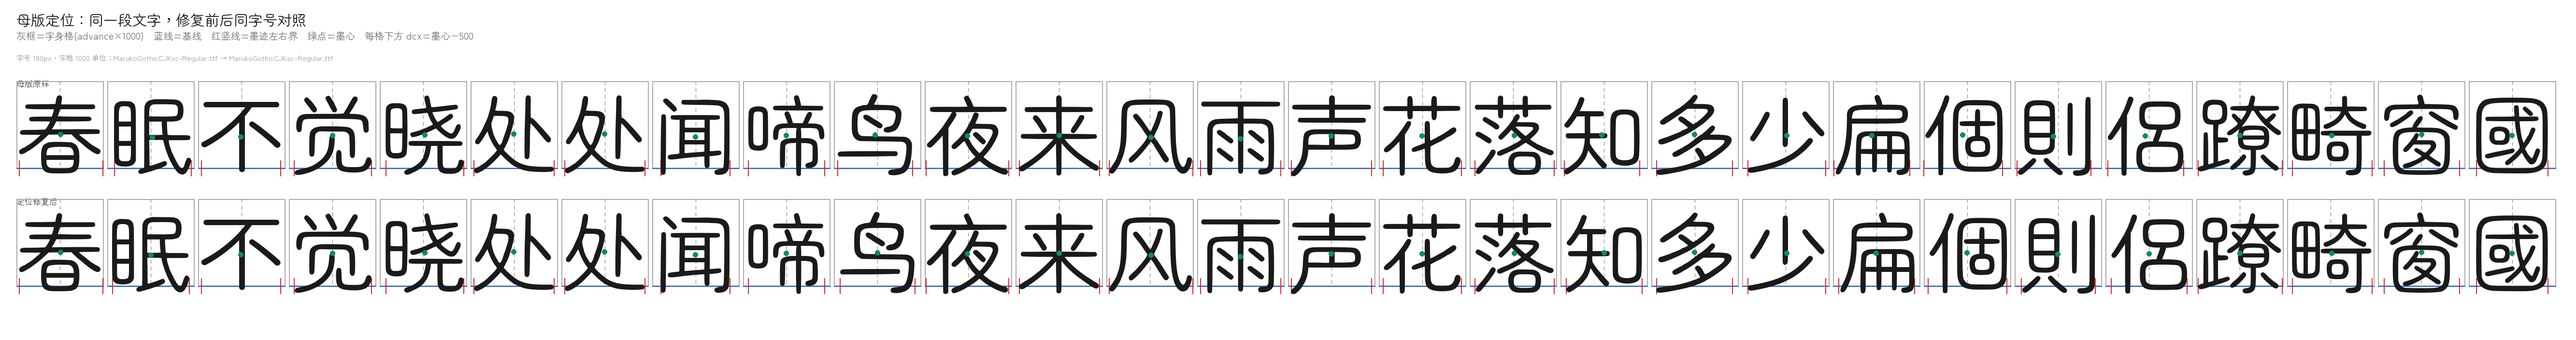
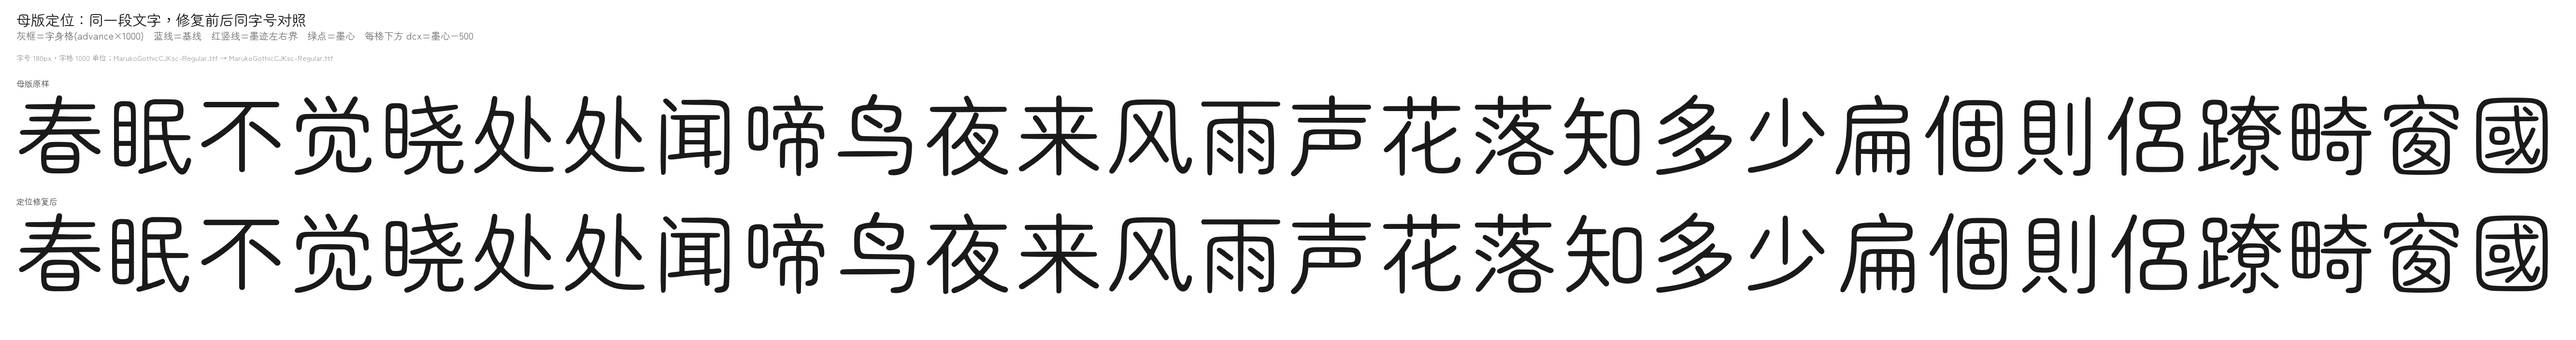
母版定位：补全库分布图，text 模式不画辅助线

diff --git a/tools/fig_hpos.py b/tools/fig_hpos.py
@@ -94,16 +94,73 @@ def draw_cell(img: Image.Image, d: ImageDraw.ImageDraw, path: Path, ch: str,
             d.text((x0 + 2, base + 10), label, font=lab_font, fill=MID)
 
 
+def distribution(path: Path) -> list[float]:
+    """全库满格字的 |dcx|（墨宽 ≥ 850、advance 1000 的汉字），直方图的口径。"""
+    out: list[float] = []
+    with TTFont(str(path), lazy=True) as f:
+        cmap, glyf = f.getBestCmap(), f["glyf"]
+        for cp, gname in cmap.items():
+            if not (0x4E00 <= cp <= 0x9FFF or 0x3400 <= cp <= 0x4DBF):
+                continue
+            g = glyf[gname]
+            if g.numberOfContours > 0 and g.xMax - g.xMin >= 850:
+                out.append(abs((g.xMin + g.xMax) / 2 - 500))
+    return out
+
+
+def draw_dist(master: Path, fixed: Path, out: Path) -> None:
+    a, b = distribution(master), distribution(fixed)
+    top = 60
+    bins = list(range(0, 65, 5))
+    ha = [sum(1 for v in a if lo <= v < lo + 5) for lo in bins]
+    hb = [sum(1 for v in b if lo <= v < lo + 5) for lo in bins]
+    W, H = 1660, 720
+    img = Image.new("RGB", (W, H), "white")
+    d = ImageDraw.Draw(img)
+    f_t = ImageFont.truetype(str(master), 30)
+    f_s = ImageFont.truetype(str(master), 21)
+    f_x = ImageFont.truetype(str(master), 17)
+    d.text((60, 18), "母版定位：满格字 |墨心−500| 分布，修复前 / 修复后", font=f_t, fill=INK)
+    d.text((60, 56), f"{len(a):,} 个满格字（advance 1000、墨宽 ≥850）；纵轴=字数，横轴=|dcx| 单位（em/1000）",
+           font=f_s, fill=(110, 110, 110))
+    x0, y0, w, h = 110, H - 120, 1300, 430
+    peak = max(max(ha), max(hb)) or 1
+    d.line([x0, y0, x0 + w, y0], fill=GREY, width=2)
+    d.line([x0, y0, x0, y0 - h - 20], fill=GREY, width=2)
+    bw = w / len(bins)
+    for i, lo in enumerate(bins):
+        for val, colour, off in ((ha[i], (150, 150, 150), 0), (hb[i], (36, 104, 210), bw / 2)):
+            hh = (val / peak) * h
+            d.rectangle([x0 + i * bw + off, y0 - hh, x0 + i * bw + off + bw / 2 - 2, y0], fill=colour)
+        d.text((x0 + i * bw + 4, y0 + 8), f"{lo}", font=f_x, fill=(90, 90, 90))
+    d.text((x0 + w - 60, y0 + 30), "|dcx|", font=f_x, fill=(90, 90, 90))
+    for yy, val in ((y0 - h, peak), (y0 - h / 2, peak // 2), (y0, 0)):
+        d.text((x0 - 60, yy - 8), f"{val:,}", font=f_x, fill=(90, 90, 90))
+    for label, vals, colour, row in (("母版原样", ha, (150, 150, 150), 0),
+                                    ("只平移后", hb, (36, 104, 210), 1)):
+        m = sum(vals) or 1
+        over = sum(1 for v in (a if row == 0 else b) if v > 20)
+        d.rectangle([1010, 120 + row * 56, 1034, 144 + row * 56], fill=colour)
+        d.text((1044, 118 + row * 56),
+               f"{label}：|dcx|>20 共 {over:,} 字（{100*over/m:.2f}%）  最大 {max(a if row == 0 else b):.1f}",
+               font=f_s, fill=INK)
+    img.save(out)
+    print("写出", out, img.size)
+
+
 def main() -> None:
     ap = argparse.ArgumentParser(description="母版定位（墨心 vs 字格中线）修复前后对照图")
     ap.add_argument("--master", type=Path, required=True, help="母版原样")
     ap.add_argument("--fixed", type=Path, required=True, help="fix_hpos.py 输出的修复件")
     ap.add_argument("--chars", default="匕名爿㔾乁扁門國團日田回")
-    ap.add_argument("--mode", choices=("grid", "text", "overlay"), default="grid")
+    ap.add_argument("--mode", choices=("grid", "text", "overlay", "dist"), default="grid")
     ap.add_argument("--cell", type=int, default=190, help="每格像素边长（1 倍）")
     ap.add_argument("--out", type=Path, required=True)
     args = ap.parse_args()
 
+    if args.mode == "dist":
+        draw_dist(args.master, args.fixed, args.out)
+        return
     chars = args.chars
     m_dcx = dcx_table(args.master, chars)
     x_dcx = dcx_table(args.fixed, chars)
@@ -145,7 +202,7 @@ def main() -> None:
                           label=f"dcx {v:+.0f}", lab_font=f_small)
             elif args.mode == "text":
                 path = args.master if ri == 0 else args.fixed
-                draw_cell(img, d, path, ch, x0, base, cell, INK)
+                draw_cell(img, d, path, ch, x0, base, cell, INK, show_guides=False)
             else:
                 draw_cell(img, d, args.fixed, ch, x0, base, cell, INK,
                           ghost=args.master,

diff --git a/docs/evidence/2026-11-07-mother-hpos.md b/docs/evidence/2026-11-07-mother-hpos.md
@@ -36,8 +36,11 @@
 2. **`2026-11-07-mother-hpos-overlay.png`**（1676×540）——同一格里叠影：灰=母版原样，黑=修复后，
    格下写 `改前 → 改后`。一眼看出往哪边挪了、挪了多少。
 3. **`2026-11-07-mother-hpos-text.png`**（5332×704）——整段文字（含 `扁 個 則 侶 蹽 畸 窗 國`），
-   修复前后同字号，看的是整行观感而不是单字数字。
+   修复前后同字号、不画辅助线，看的是整行观感而不是单字数字。
 4. **`2026-11-07-mother-hpos-zoom.png`**（1940×1264）——`匕 乁 扁 平` 放大 2 倍，给细节。
+5. **`2026-11-07-mother-hpos-dist.png`**（1660×720）——全库 26,560 个满格字的 `|dcx|` 直方图，
+   灰=母版原样、蓝=只平移后；右边两行是总数与最大值。这是四张实字图之外唯一的全量视图：
+   前四张证明「改对了」，这张证明「改到哪儿为止」。
 
 `日`（U+65E5）在图上 `dcx +14` 且修复后没动，这是对的：母版给它右上角吊了一块 55×45 的残墨，
 `fix_hpos` 用去残墨的字面框量，所以判它没偏；按 glyf bbox 量才读出 +14.5。这张图不裁墨迹，
@@ -78,6 +81,7 @@ python tools/fig_hpos.py --master work/MarukoGothicCJKsc-Regular.ttf \
 python tools/fig_hpos.py … --mode overlay --chars "匕名爿㔾乁扁" --out …-overlay.png
 python tools/fig_hpos.py … --mode text --chars "春眠不觉晓…窗國" --out …-text.png
 python tools/fig_hpos.py … --mode grid --cell 460 --chars "匕乁扁平" --out …-zoom.png
+python tools/fig_hpos.py … --mode dist --out docs/evidence/2026-11-07-mother-hpos-dist.png
 ```
 
 `tools/fig_hpos.py` 是本轮新增的：上一张定位图（`2026-11-06-hpos-text.png`）只有 1 倍整段文字，

diff --git a/CHANGELOG.md b/CHANGELOG.md
@@ -5,7 +5,8 @@
   上一张 `2026-11-06-hpos-text.png` 只有 1 倍整段文字，读得出「发飘」、读不出「偏几个单位、往哪边」。
   读数：满格字 26,560，中位 `|dcx|` 5.5 → **4.0**，最大 54.5 → **20.5**，`|dcx|≤20` 89.66% → **99.57%**，
   平移 2,890 字（中位 26 单位、最大 −112），`advance` 与点数不变量全 0 例外。
-  证据文档 `docs/evidence/2026-11-07-mother-hpos.md`，图四张同目录。
+  证据文档 `docs/evidence/2026-11-07-mother-hpos.md`，图五张同目录（`grid`／`overlay`／`text`／
+  `zoom` 四种格图 + `dist` 全库直方图：`|dcx|>20` 2,746 字 10.34% → 113 字 0.43%，最大 54.5 → 20.5）。
 - **取号的一个真缺陷（本轮实测踩到并修）**：`artifact_anchor()` 写死 `selffont-` 前缀，
   而母版工作流出的是 `build-*`，于是 `build.yml` 永远取不到产物锚点。当日运行攒到保留上限 5 条
   （2026-11-06 正好 330–334 五条）时，下一次母版运行会直接撞 `AnchorUnavailable` 而不出包。
